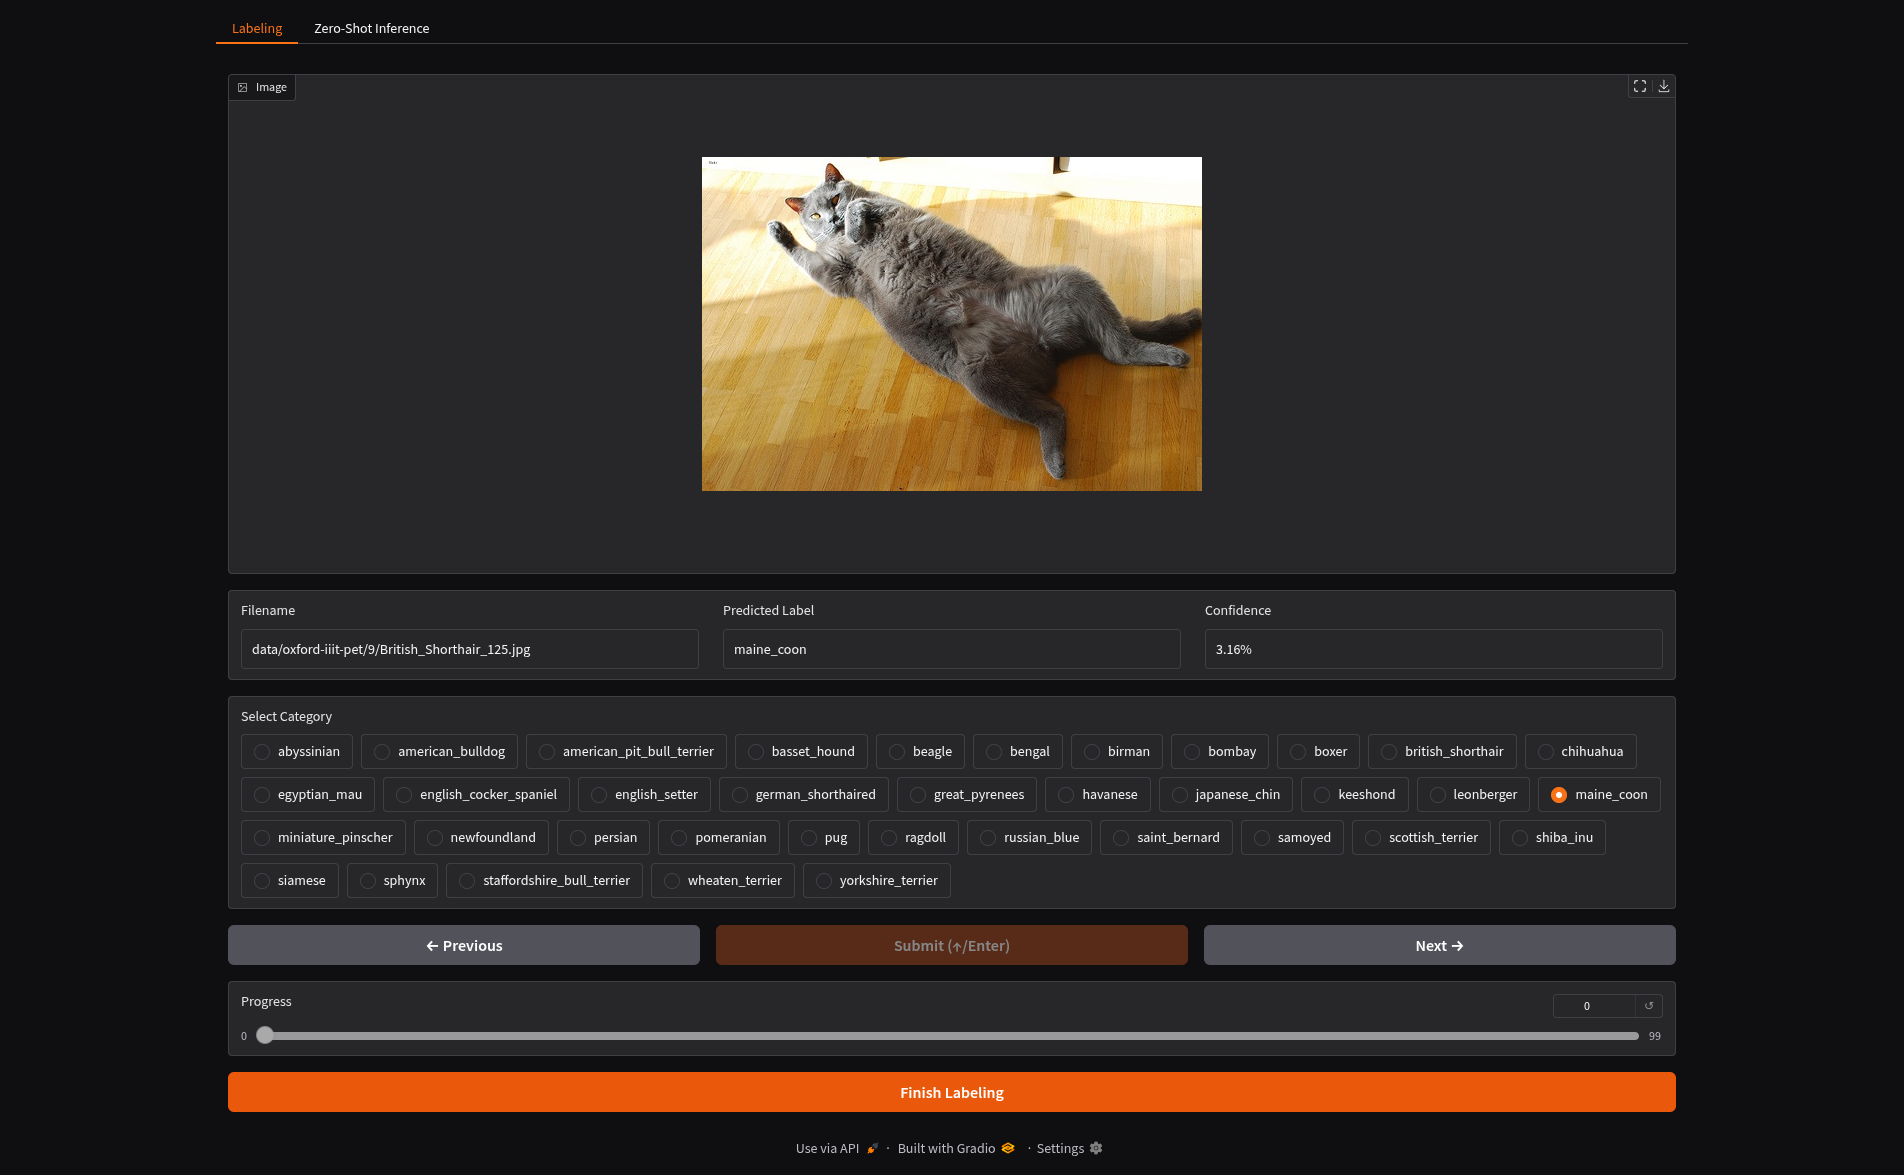
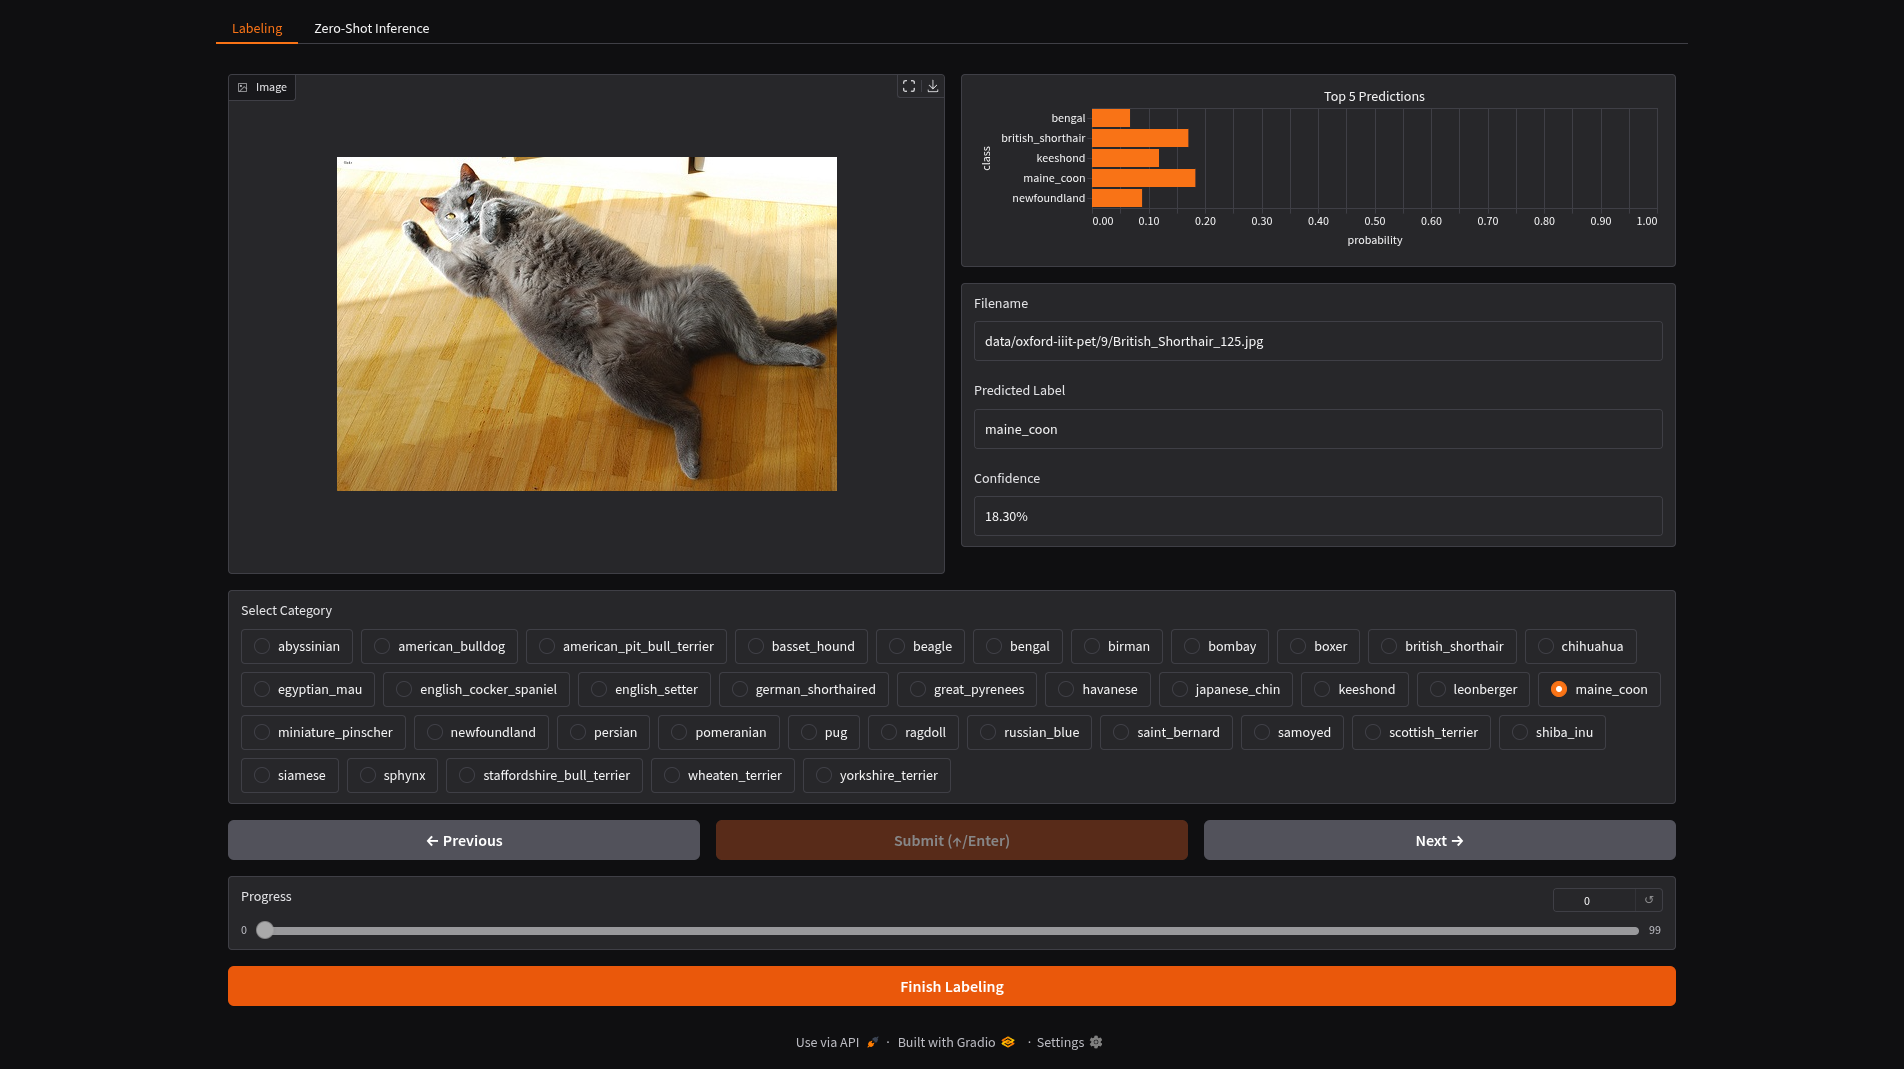
Add model prediction as classification bar (#4)
* pred is already softmaxed

* save raw preds for further process

* working version of showing plot

* add gradio classification bar

Changed region(s): [[0.093, 0.0, 0.8986, 0.9878], [0.8367, 0.1852, 0.8676, 0.2161]]

diff --git a/src/active_vision/core.py b/src/active_vision/core.py
@@ -2,7 +2,6 @@ import pandas as pd
 from loguru import logger
 from fastai.vision.all import *
 import torch
-import torch.nn.functional as F
 
 import warnings
 from typing import Callable
@@ -142,7 +141,8 @@ class ActiveLearner:
             {
                 "filepath": filepaths,
                 "pred_label": [self.learn.dls.vocab[i] for i in cls_preds.numpy()],
-                "pred_conf": torch.max(F.softmax(preds, dim=1), dim=1)[0].numpy(),
+                "pred_conf": torch.max(preds, dim=1)[0].numpy(),
+                "pred_raw": preds.numpy().tolist(),
             }
         )
         return self.pred_df
@@ -187,6 +187,8 @@ class ActiveLearner:
 
         # Remove samples that is already in the training set
         df = df[~df["filepath"].isin(self.train_set["filepath"])].copy()
+
+        # df = df.drop(columns=["pred_raw"]) # probably not needed here
 
         if strategy == "least-confidence":
             logger.info(f"Getting top {num_samples} low confidence samples")
@@ -279,34 +281,56 @@ class ActiveLearner:
                 with gr.Tab("Labeling"):
                     current_index = gr.State(value=0)
 
-                    image = gr.Image(
-                        type="filepath", label="Image", value=filepaths[0], height=500
-                    )
-
-                    with gr.Row():
-                        filename = gr.Textbox(
-                            label="Filename", value=filepaths[0], interactive=False
+                    with gr.Row(min_height=500):
+                        image = gr.Image(
+                            type="filepath",
+                            label="Image",
+                            value=filepaths[0],
+                            height=500
                         )
 
-                        pred_label = gr.Textbox(
-                            label="Predicted Label",
-                            value=df["pred_label"].iloc[0]
-                            if "pred_label" in df.columns
-                            else "",
-                            interactive=False,
-                        )
-                        pred_conf = gr.Textbox(
-                            label="Confidence",
-                            value=f"{df['pred_conf'].iloc[0]:.2%}"
-                            if "pred_conf" in df.columns
-                            else "",
-                            interactive=False,
-                        )
+                        # Add bar plot with top 5 predictions
+                        with gr.Column():
+                            pred_plot = gr.BarPlot(
+                                x="probability",
+                                y="class",
+                                title="Top 5 Predictions",
+                                x_lim=[0, 1],
+                                value=None
+                                if "pred_raw" not in df.columns
+                                else pd.DataFrame(
+                                    {
+                                        "class": self.class_names,
+                                        "probability": df["pred_raw"].iloc[0],
+                                    }
+                                ).nlargest(5, "probability"),
+                            )
+
+                            filename = gr.Textbox(
+                                label="Filename", value=filepaths[0], interactive=False
+                            )
+
+                            pred_label = gr.Textbox(
+                                label="Predicted Label",
+                                value=df["pred_label"].iloc[0]
+                                if "pred_label" in df.columns
+                                else "",
+                                interactive=False,
+                            )
+                            pred_conf = gr.Textbox(
+                                label="Confidence",
+                                value=f"{df['pred_conf'].iloc[0]:.2%}"
+                                if "pred_conf" in df.columns
+                                else "",
+                                interactive=False,
+                            )
 
                     category = gr.Radio(
                         choices=self.class_names,
                         label="Select Category",
-                        value=df["pred_label"].iloc[0] if "pred_label" in df.columns else None,
+                        value=df["pred_label"].iloc[0]
+                        if "pred_label" in df.columns
+                        else None,
                     )
 
                     with gr.Row():
@@ -361,7 +385,9 @@ class ActiveLearner:
                             dtype_dropdown = gr.Dropdown(
                                 choices=["float32", "float16", "bfloat16"],
                                 label="Data Type",
-                                value="float16" if torch.cuda.is_available() else "float32",
+                                value="float16"
+                                if torch.cuda.is_available()
+                                else "float32",
                             )
 
                     with gr.Column():
@@ -409,6 +435,16 @@ class ActiveLearner:
                 next_idx = current_idx + direction
 
                 if 0 <= next_idx < len(filepaths):
+                    plot_data = (
+                        None
+                        if "pred_raw" not in df.columns
+                        else pd.DataFrame(
+                            {
+                                "class": self.class_names,
+                                "probability": df["pred_raw"].iloc[next_idx],
+                            }
+                        ).nlargest(5, "probability")
+                    )
                     return (
                         filepaths[next_idx],
                         filepaths[next_idx],
@@ -423,7 +459,18 @@ class ActiveLearner:
                         else None,
                         next_idx,
                         next_idx,
+                        plot_data,
                     )
+                plot_data = (
+                    None
+                    if "pred_raw" not in df.columns
+                    else pd.DataFrame(
+                        {
+                            "class": self.class_names,
+                            "probability": df["pred_raw"].iloc[current_idx],
+                        }
+                    ).nlargest(5, "probability")
+                )
                 return (
                     filepaths[current_idx],
                     filepaths[current_idx],
@@ -438,6 +485,7 @@ class ActiveLearner:
                     else None,
                     current_idx,
                     current_idx,
+                    plot_data,
                 )
 
             def save_and_next(current_idx, selected_category):
@@ -521,6 +569,7 @@ class ActiveLearner:
                     category,
                     current_index,
                     progress,
+                    pred_plot,
                 ],
             )
 
@@ -535,6 +584,7 @@ class ActiveLearner:
                     category,
                     current_index,
                     progress,
+                    pred_plot,
                 ],
             )
 
